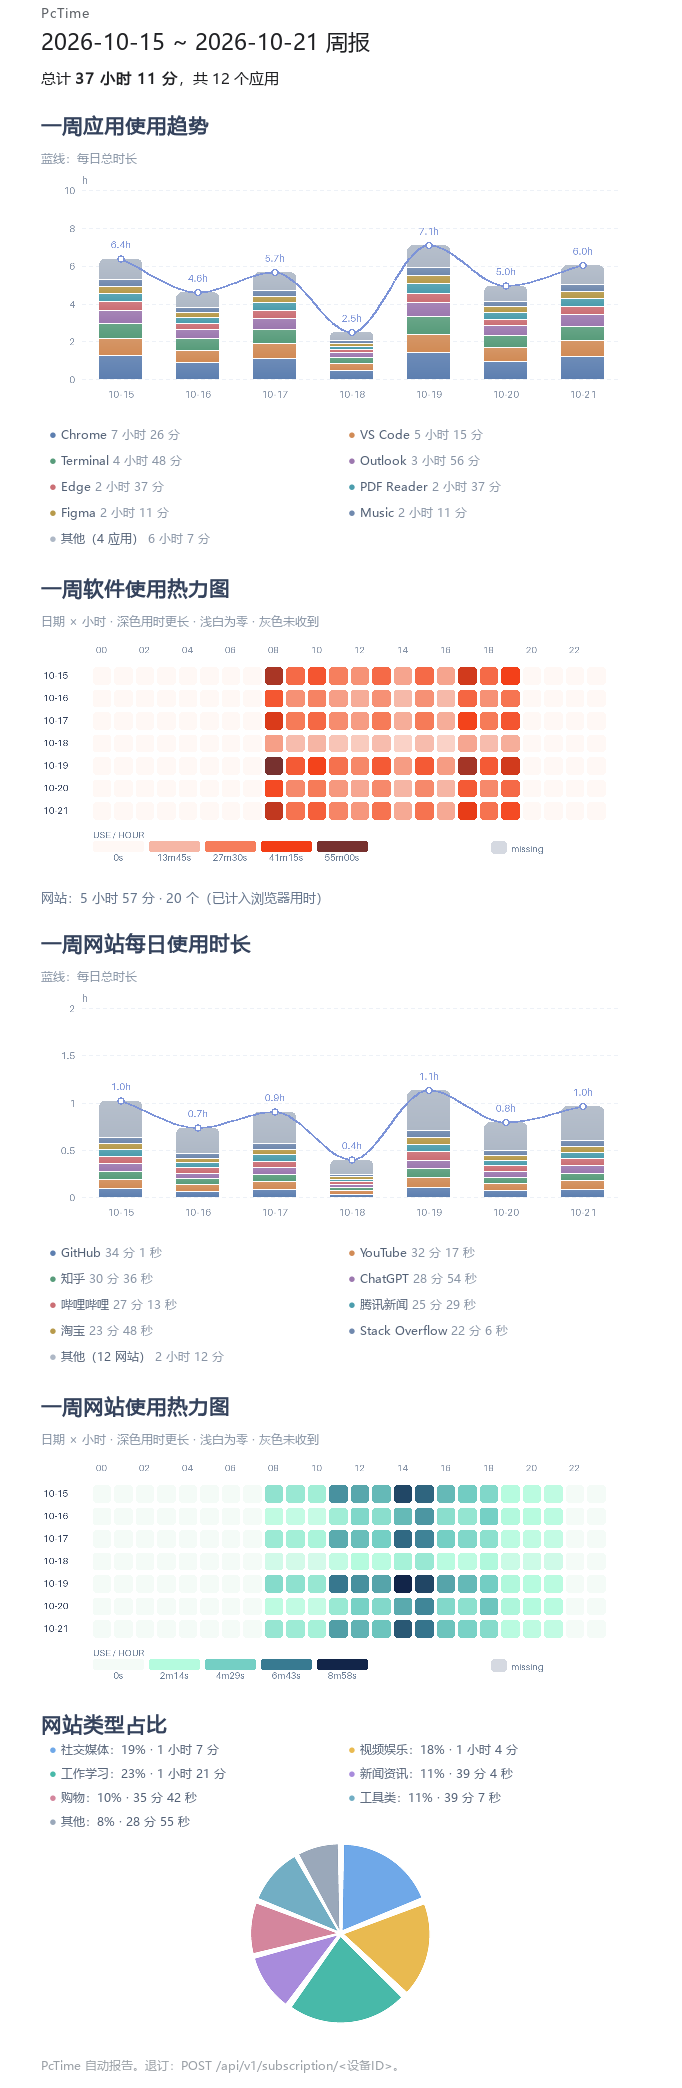
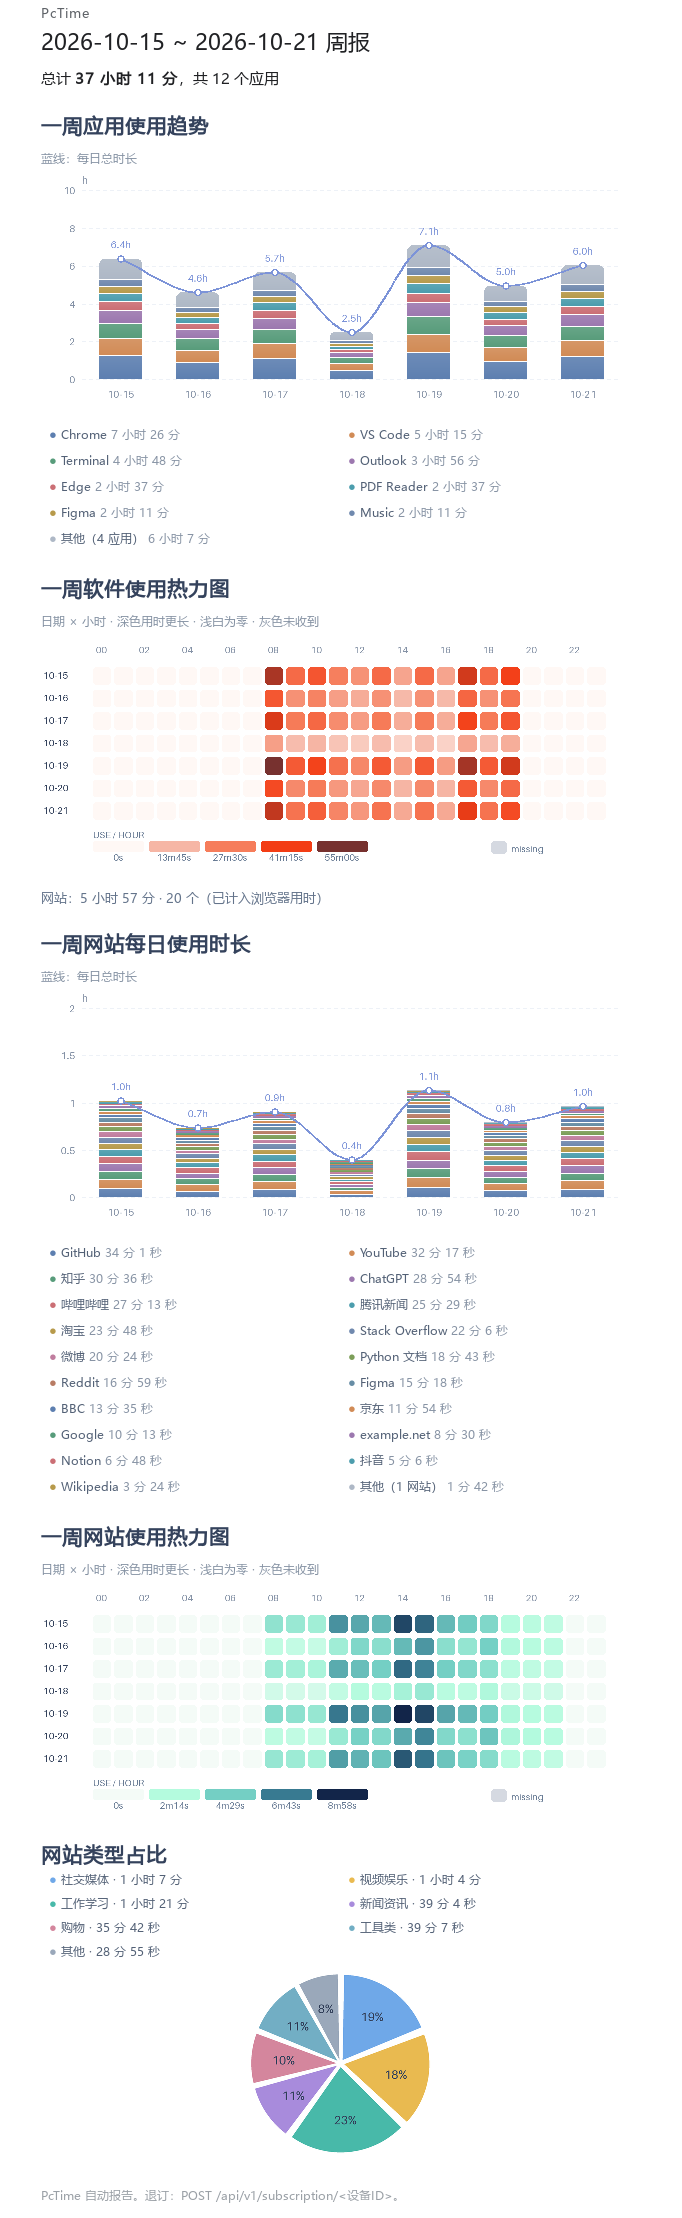
feat: expand website report details and label pie percentages

diff --git a/server/tests/test_mail_charts.py b/server/tests/test_mail_charts.py
@@ -13,7 +13,7 @@ from PIL import Image
 sys.path.insert(0, str(Path(__file__).resolve().parents[1]))
 import config
 from db import usage_records
-from mail import charts, colors, report, sender, site_names, tracking_report
+from mail import charts, colors, report, sender, site_categories, site_names, tracking_report
 
 
 class MailChartTests(unittest.TestCase):
@@ -221,6 +221,22 @@ class MailChartTests(unittest.TestCase):
         self.assertIn("未收到：10-22", body)
         self.assertEqual(len(charts.IMAGE_DATA.findall(body)), 1)
 
+    def test_website_stack_only_groups_a_short_small_tail(self):
+        meaningful = [{"day": str(self.start), "host": f"site-{index:02d}.example", "seconds": 120}
+                      for index in range(36)]
+        tiny = [{"day": str(self.start), "host": f"tiny-{index:02d}.example", "seconds": 1}
+                for index in range(10)]
+        self.assertEqual(charts.website_series_limit(meaningful + tiny), 36)
+        body = charts.weekly_website_stacked_chart(meaningful + tiny, self.start, self.end)
+        self.assertIn("site-35.example", body)
+        self.assertIn("其他（10 网站）", body)
+        self.assertEqual(charts.website_series_limit(meaningful + [
+            {"day": str(self.start), "host": f"more-{index:02d}.example", "seconds": 120}
+            for index in range(14)]), 50)
+        self.assertEqual(site_categories.classify("docs.qq.com"), "工作学习")
+        self.assertEqual(site_categories.classify("21st.dev"), "工作学习")
+        self.assertEqual(site_categories.classify("mail.proton.me"), "工具类")
+
     def test_category_pie_uses_separated_flat_slices_and_legend_above(self):
         hosts = ("x.com", "youtube.com", "github.com", "bbc.com",
                  "taobao.com", "google.com", "unknown.example")
@@ -234,6 +250,8 @@ class MailChartTests(unittest.TestCase):
         for color in charts.PIE_PALETTE:
             self.assertIn(bytes.fromhex(color[1:]), pixels)
         self.assertIn(b"\xff\xff\xff", pixels)  # White gutters separate the slices.
+        self.assertIn(bytes.fromhex(charts.theme.TEXT[1:]), pixels)  # Percentage text is in the pie.
+        self.assertNotIn("社交媒体：", body)  # The legend only carries names and durations.
 
     def test_daily_gantt_uses_only_real_complete_intervals(self):
         sites = [{"day": str(self.start), "host": "github.com", "seconds": 900}]
@@ -254,6 +272,26 @@ class MailChartTests(unittest.TestCase):
         _, weekly = tracking_report.render({"total_seconds": 900, "apps": []}, [], sites,
                                            self.start, self.end, site_intervals=intervals)
         self.assertNotIn('data-chart-style="website-gantt"', weekly)
+
+    def test_website_gantt_only_omits_hosts_below_one_minute(self):
+        rows = [{"day": str(self.start), "host": f"regular-{index:02d}.example", "seconds": 60}
+                for index in range(30)]
+        rows += [{"day": str(self.start), "host": f"short-{index:02d}.example", "seconds": 59}
+                 for index in range(10)]
+        intervals = [{"day": str(self.start), "host": row["host"],
+                      "start_second": 32400 + index * 65,
+                      "end_second": 32400 + index * 65 + row["seconds"]}
+                     for index, row in enumerate(rows[:30])]
+        body = charts.website_gantt_chart(rows, intervals, self.start)
+        self.assertIn('data-chart-style="website-gantt"', body)
+        self.assertIn("regular-29.example", body)  # No former top-24 truncation.
+        self.assertNotIn("short-00.example", body)
+        self.assertIn("另有 10 个网站用时不足 1 分钟未展示", body)
+        image = Image.open(BytesIO(base64.b64decode(charts.IMAGE_DATA.search(body).group(1))))
+        self.assertEqual(image.size[0], 1200)
+        only_short = charts.website_gantt_chart(rows[30:], [], self.start)
+        self.assertNotIn('data-chart-style="website-gantt"', only_short)
+        self.assertIn("均不足 1 分钟", only_short)
 
     def test_known_site_names_are_display_only_and_unknown_hosts_stay_distinct(self):
         self.assertEqual(site_names.names_for_hosts(["github.com", "www.douyin.com", "unknown.example"]),

diff --git a/server/mail/site_categories.py b/server/mail/site_categories.py
@@ -16,12 +16,13 @@ _RULES = (
     ("视频娱乐", ("youtube.com", "youtu.be", "bilibili.com", "douyin.com", "tiktok.com",
                   "netflix.com", "twitch.tv", "iqiyi.com", "youku.com")),
     ("工作学习", ("github.com", "gitlab.com", "stackoverflow.com", "notion.so",
-                  "figma.com", "coursera.org", "wikipedia.org", "docs.google.com")),
+                  "figma.com", "coursera.org", "wikipedia.org", "docs.google.com",
+                  "docs.qq.com", "21st.dev")),
     ("新闻资讯", ("bbc.com", "cnn.com", "nytimes.com", "reuters.com", "thepaper.cn",
                   "news.google.com", "news.qq.com")),
     ("购物", ("taobao.com", "tmall.com", "jd.com", "amazon.com", "ebay.com")),
     ("工具类", ("chatgpt.com", "openai.com", "google.com", "bing.com", "baidu.com",
-                "offershow.cn", "nowcoder.com")),
+                "offershow.cn", "nowcoder.com", "mail.proton.me")),
 )
 
 

diff --git a/server/mail/site_names.py b/server/mail/site_names.py
@@ -13,7 +13,9 @@ KNOWN = {
     "coursera.org": ("Coursera", "Coursera"),
     "wikipedia.org": ("Wikipedia", "Wikipedia"),
     "docs.google.com": ("Google 文档", "Google Docs"),
+    "docs.qq.com": ("腾讯文档", "Tencent Docs"),
     "docs.python.org": ("Python 文档", "Python Docs"),
+    "21st.dev": ("21st.dev", "21st.dev"),
     "youtube.com": ("YouTube", "YouTube"),
     "bilibili.com": ("哔哩哔哩", "Bilibili"),
     "douyin.com": ("抖音", "Douyin"),
@@ -46,6 +48,7 @@ KNOWN = {
     "openai.com": ("OpenAI", "OpenAI"),
     "google.com": ("Google", "Google"),
     "mail.google.com": ("Gmail", "Gmail"),
+    "mail.proton.me": ("Proton Mail", "Proton Mail"),
     "bing.com": ("Bing", "Bing"),
     "baidu.com": ("百度", "Baidu"),
     "nowcoder.com": ("牛客", "Nowcoder"),

diff --git a/server/config.py b/server/config.py
@@ -275,7 +275,7 @@ MAIL_CATCHUP_DAYS = int(_env("PCTIME_MAIL_CATCHUP_DAYS", "2"))
 #    会被 was_mail_sent 挡掉、发不出去。真要改就在两次发送之间改。
 MAIL_WEEKLY_DAY = int(_env("PCTIME_MAIL_WEEKLY_DAY", "6"))
 
-# 纯文本备用版本的明细上限；图表另按 MAIL_CHART_SERIES 合并为“其他”。
+# 纯文本备用版本的网站明细上限；网站图表按时长动态展开。
 MAIL_MAX_APPS = int(_env("PCTIME_MAIL_MAX_APPS", "60"))
 MAIL_MAX_SITES = int(_env("PCTIME_MAIL_MAX_SITES", "40"))
 # Largest categories shown separately in stacked charts; remaining time is Other.

diff --git a/server/README.md b/server/README.md
@@ -20,7 +20,9 @@
 
 以下为合成演示数据的周报：软件按日期堆叠、网站按每日域名时长堆叠并叠加总用时折线，另有软件与网站各自的「日期 × 小时」热力图和网站类型占比；周报不包含旧软件时段列表。
 邮件中的常见网站使用离线中/英文名称映射显示；未知域名仍显示域名，不改变原始统计或上传数据。
+网站堆叠柱动态展开，优先覆盖至少 95% 时长，至多展示 80 个网站；余下网站归入“其他”。网站类型饼图直接标注百分比，图例只列类型与时长。
 点击图片可查看大图；[日报示例](docs/images/mail-daily.png)包含软件使用时段和时长图、网站使用甘特图、带每小时总时长标注的堆叠柱状图和网站类型饼图。
+日报网站时段图不设网站数量上限，仅省略当天累计不足 1 分钟的网站；省略部分仍计入网站总时长。
 图片由 HTML 模板离线渲染，不同邮箱的布局和渐变显示可能略有不同。
 
 [![周报邮件预览](docs/images/mail-weekly.png)](docs/images/mail-weekly.png)
@@ -190,8 +192,8 @@ copy server\.env.example server\.env      # Linux/macOS 用 cp
 | `PCTIME_MAIL_CATCHUP_DAYS` | 漏发后回头补几天 | `2` |
 | `PCTIME_MAIL_SCHEDULER` | 设 `0` 关掉进程内定时器（改用外部 cron） | `1` |
 | `PCTIME_MAIL_MAX_APPS` | 纯文本应用明细上限；0 为全部，较小正值也限制图表单独展示的类别数 | `60` |
-| `PCTIME_MAIL_MAX_SITES` | 纯文本网站明细上限；0 为全部，较小正值也限制图表单独展示的类别数 | `40` |
-| `PCTIME_MAIL_CHART_SERIES` | 堆叠柱中单独展示的类别数（1–12），其余合并为“其他”，不丢弃时长 | `8` |
+| `PCTIME_MAIL_MAX_SITES` | 纯文本网站明细上限；0 为全部 | `40` |
+| `PCTIME_MAIL_CHART_SERIES` | 软件堆叠柱的类别上限（1–12）；网站柱图以此为最少展示数，再按时长动态展开，最多 80 个网站 | `8` |
 | `PCTIME_MAIL_WEEKLY_DAY` | 一周里哪一天发周报（`0`=周一 … `6`=周日），其余日子发当天日报 | `6` |
 | `PCTIME_SMTP_TIMEOUT` | 单次 SMTP 操作超时（秒） | `20` |
 

diff --git a/README.md b/README.md
@@ -68,7 +68,9 @@ Windows 桌面屏幕使用时间统计工具，帮助你了解每天在各个应
 
 周报以柔色堆叠柱分别展示每天的软件与网站时长构成，并以折线标出网站每日总用时；以两张「日期 × 小时」热力图分别展示软件与网站使用强度，
 另有网站类型占比饼图；不再插入旧应用时间线。缺失日期留空，不当作零使用。
+网站柱图按实际时长展开，只有短时且合计占比小的尾项才合并为“其他”；网站类型百分比标在饼图上。
 常见网站在邮件图例和时段图中显示中/英文站点名；未识别域名保留原样，统计仍按原域名计算。
+日报网站使用时段图展示当天累计使用至少 1 分钟的所有网站；不足 1 分钟的网站仍计入总时长。
 仅参考 ECharts 视觉风格：邮件图表由 Python 生成静态内嵌 PNG，不依赖 ECharts JS、Node.js 或浏览器。
 
 [![周报邮件：软件与网站每日堆叠柱、双热力图及网站类型饼图](server/docs/images/mail-weekly.png)](server/docs/images/mail-weekly.png)
